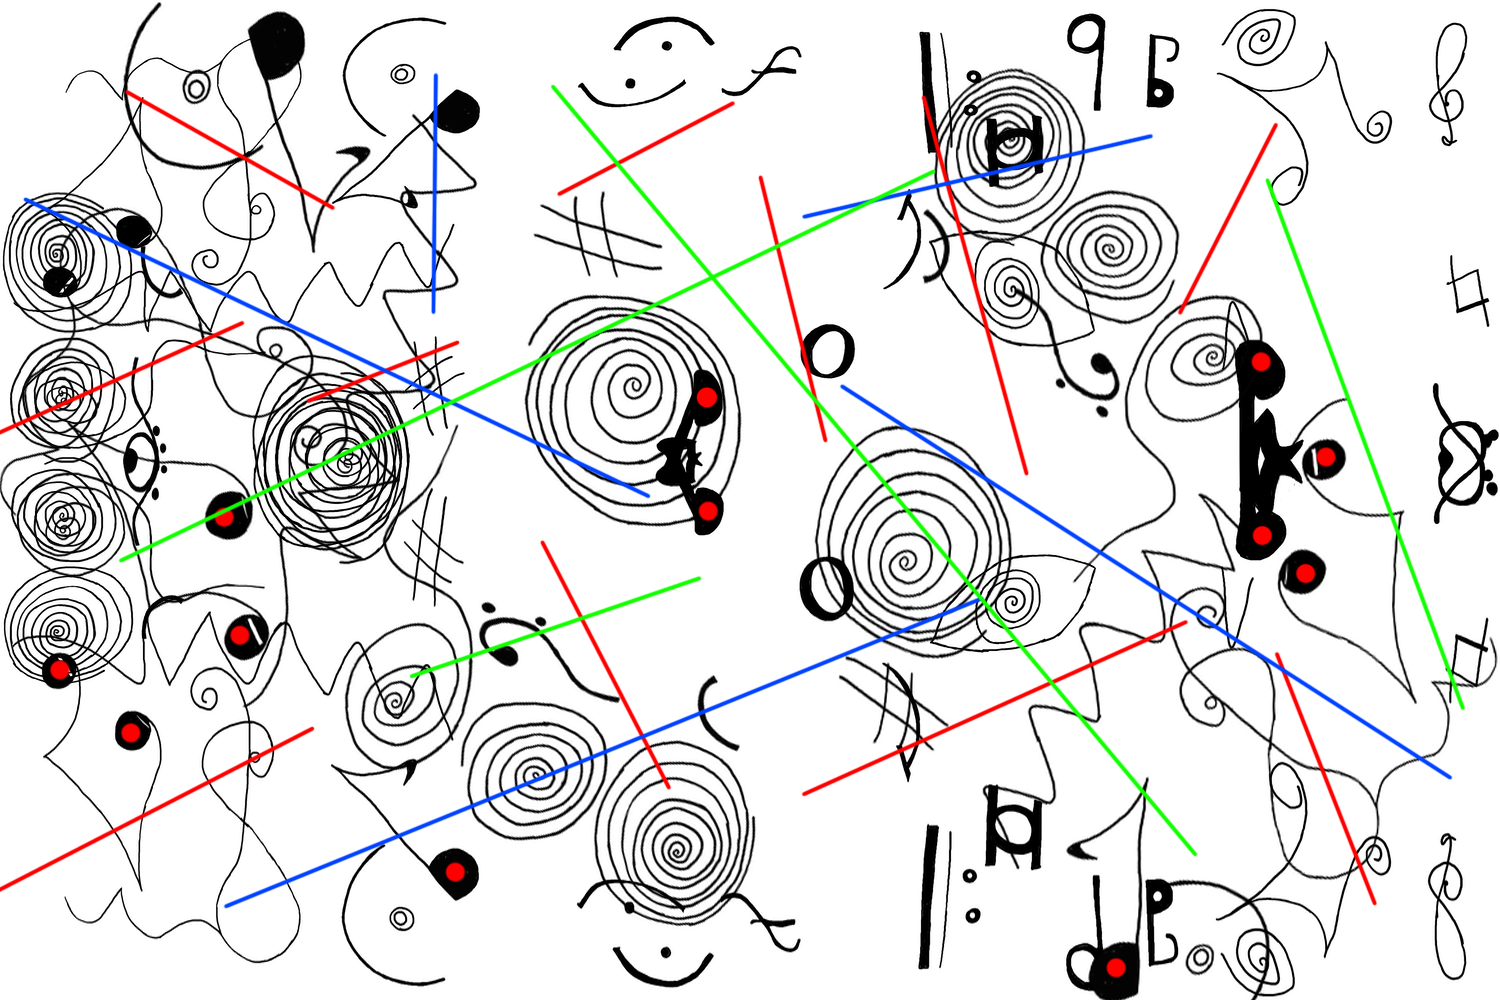
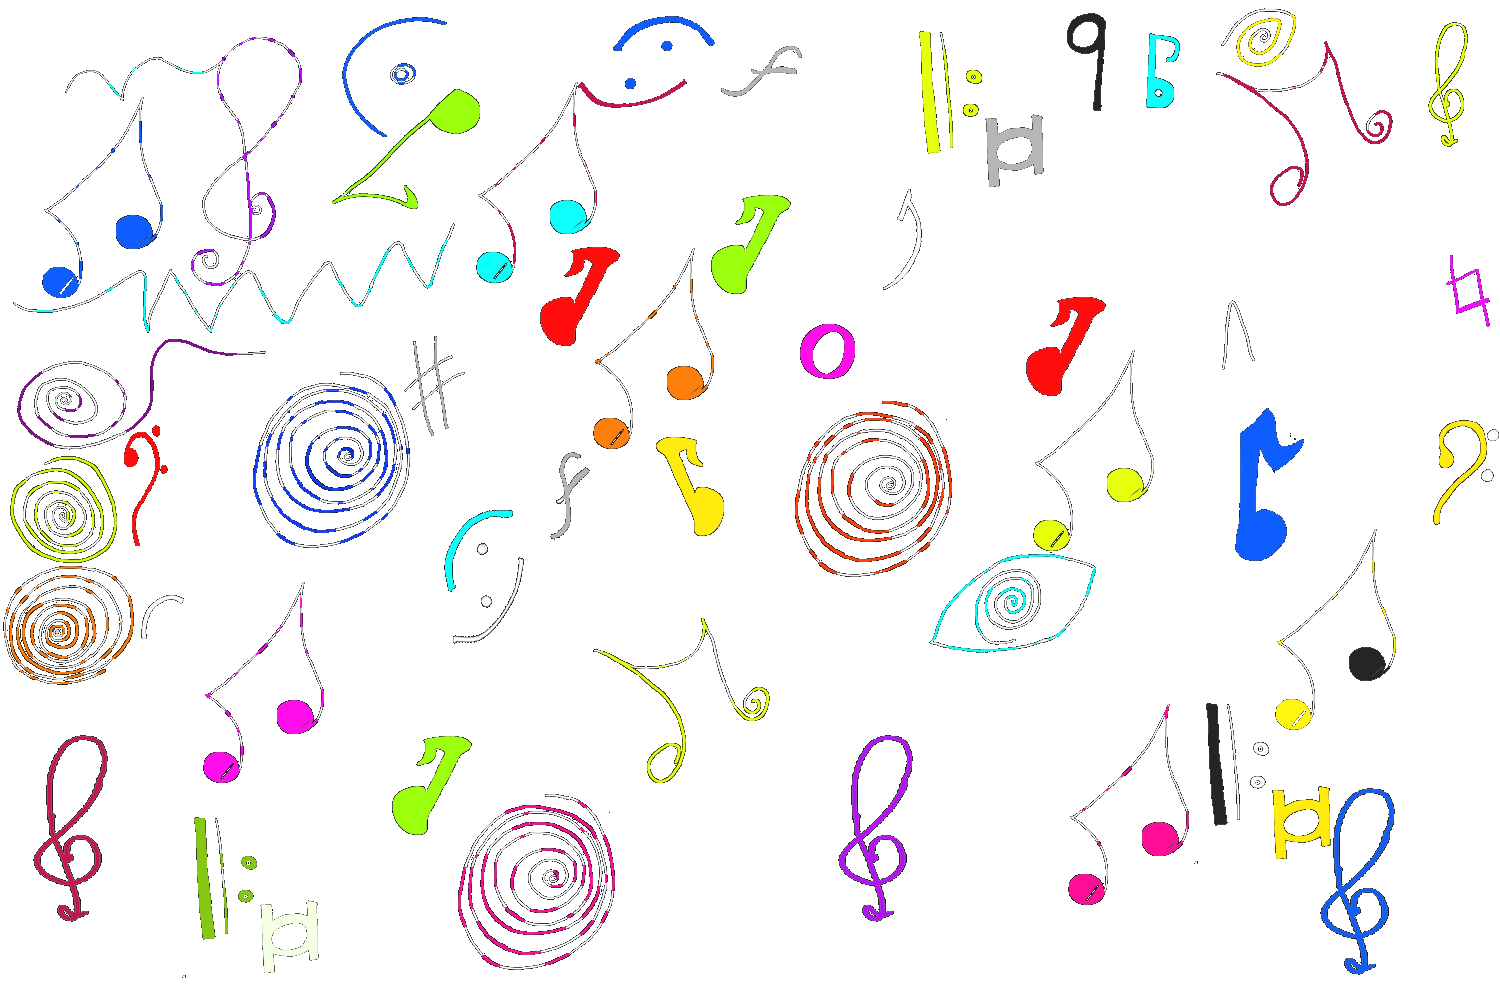
Images modification
There was an error with the loading

diff --git a/sketch.js b/sketch.js
@@ -71,6 +71,7 @@ if (started) {
 currentSong.stop();}
 started = true;
 angle = 0;
+
 if (heartRate < 60 || heartRate > 180) {
 showEmergencyMessage = true;
 if (emergencyTimeout !== null) {
@@ -82,21 +83,23 @@ if (emergencyTimeout !== null) {
 clearTimeout(emergencyTimeout);}
 if (heartRate >= 60 && heartRate < 75) {
 currentSong = song1;}
-else if (heartRate >= 76 && heartRate < 90) {
+else if (heartRate >= 75 && heartRate < 89) {
 currentSong = song2;} 
-else if (heartRate >= 91 && heartRate < 105) {
+else if (heartRate >= 90 && heartRate < 104) {
 currentSong = song3;}
-else if (heartRate >= 106 && heartRate < 120) {
+else if (heartRate >= 105 && heartRate < 119) {
 currentSong = song4;}
-else if (heartRate >= 121 && heartRate < 135) {
+else if (heartRate >= 120 && heartRate < 134) {
 currentSong = song5;}
-else if (heartRate >= 136 && heartRate < 150) {
+else if (heartRate >= 135 && heartRate < 149) {
 currentSong = song6;}
-else if (heartRate >= 151 && heartRate < 165) {
+else if (heartRate >= 150 && heartRate < 164) {
 currentSong = song7;}
-else if (heartRate >= 166 && heartRate < 180) {
+else if (heartRate >= 165 && heartRate < 180) {
 currentSong = song8;}
 currentSong.play();}
+
+
 for (var i = 0; i < particles.length; i++) {
 particles[i].x = random(width);
 particles[i].y = random(height);
@@ -108,14 +111,12 @@ showText = false;});
 
 // Drawing function established
 function draw() {
-background (0);
 
 
-    
 if (showText) {
-fill(255);
+fill(0);
 textSize(32);
-text("Please type your heart rate value and click submit", width / 2 - 300, height/2);}
+text("Please type your heart rate value and click submit", width / 2 - 300, height-100);}
 
 // Input box and button
 inputBox.show();
@@ -170,10 +171,9 @@ var freqIndex = floor(map(i, 0, img.pixels.length, 0, spectrum.length));
 img.pixels[rIndex] = map(spectrum[freqIndex % spectrum.length], 0, 255, 0, 255);
 img.pixels[gIndex] = map(spectrum[(freqIndex + 10) % spectrum.length], 0, 255, 0, 255);
 img.pixels[bIndex] = map(spectrum[(freqIndex + 20) % spectrum.length], 0, 255, 0, 255);}
-
 img.updatePixels();
-img1.loadPixels();
 
+img1.loadPixels();
 for (var i = 0; i < img1.pixels.length; i += 15) {
 var rIndex = i;
 var gIndex = i + 1;
@@ -183,7 +183,6 @@ var freqIndex = floor(map(i, 0, img1.pixels.length, 0, spectrum.length));
 img1.pixels[rIndex] = map(spectrum[freqIndex % spectrum.length], 0, 255, 0, 255);
 img1.pixels[gIndex] = map(spectrum[(freqIndex + 10) % spectrum.length], 0, 255, 0, 255);
 img1.pixels[bIndex] = map(spectrum[(freqIndex + 20) % spectrum.length], 0, 255, 0, 255);}
-
 img1.updatePixels();
 
 // Moving the two singers
